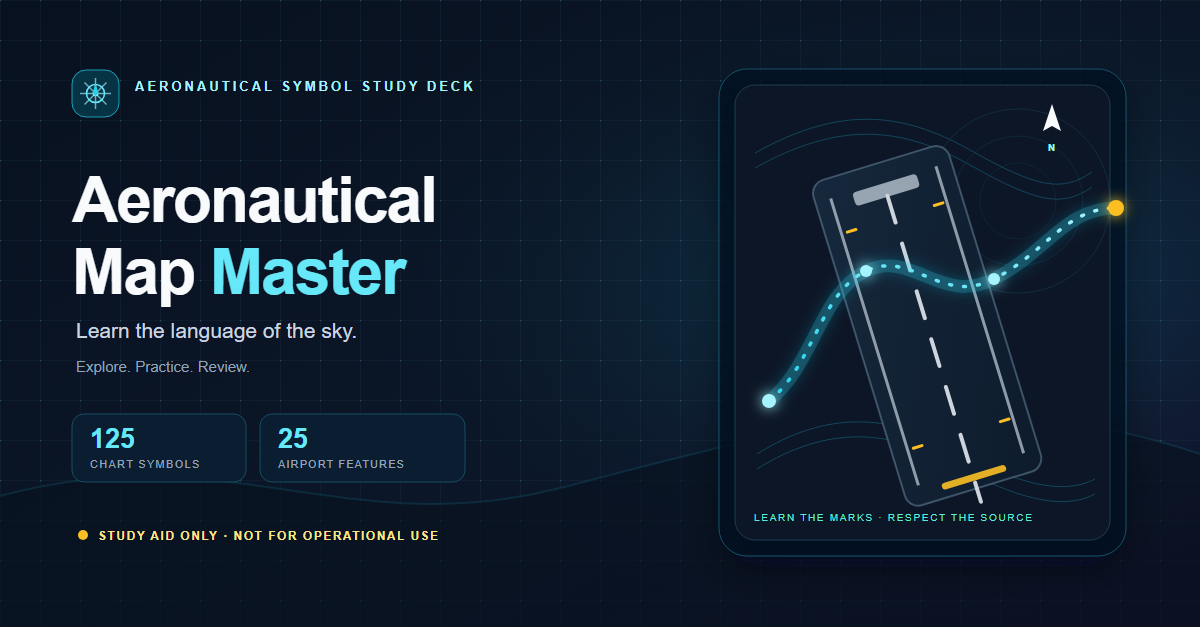
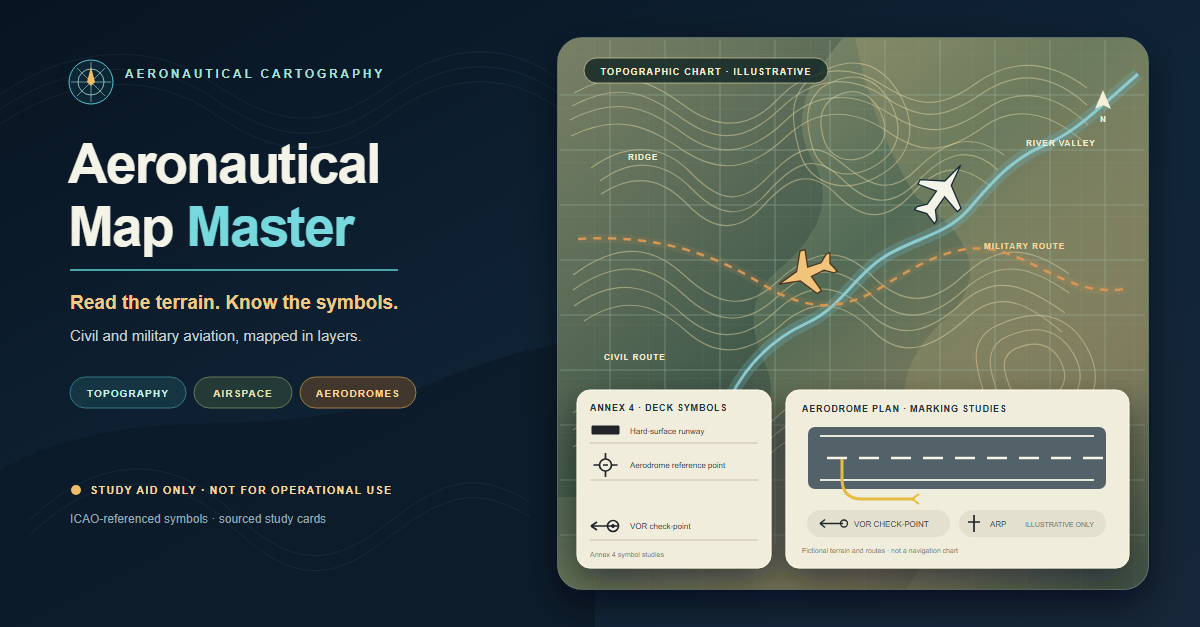
Refresh aviation cartography share image

diff --git a/index.html b/index.html
@@ -9,14 +9,14 @@
     <meta property="og:url" content="https://analaitadze-source.github.io/Aeronautical-Map-Master/">
     <meta property="og:title" content="Aeronautical Map Master">
     <meta property="og:description" content="Explore, practice, and review aeronautical chart symbols. A sourced study aid—not an operational chart reference.">
-    <meta property="og:image" content="https://analaitadze-source.github.io/Aeronautical-Map-Master/social-card.png">
+    <meta property="og:image" content="https://analaitadze-source.github.io/Aeronautical-Map-Master/social-card.png?v=2">
     <meta property="og:image:width" content="1200">
     <meta property="og:image:height" content="627">
-    <meta property="og:image:alt" content="Aeronautical Map Master study deck, illustrated with a glowing runway and navigation route on a dark chart grid.">
+    <meta property="og:image:alt" content="Aeronautical Map Master with a topographic map, civil and military route overlays, an aerodrome plan, and Annex 4-derived chart symbols.">
     <meta name="twitter:card" content="summary_large_image">
     <meta name="twitter:title" content="Aeronautical Map Master">
     <meta name="twitter:description" content="A sourced aeronautical chart-symbol study aid—not for operational use.">
-    <meta name="twitter:image" content="https://analaitadze-source.github.io/Aeronautical-Map-Master/social-card.png">
+    <meta name="twitter:image" content="https://analaitadze-source.github.io/Aeronautical-Map-Master/social-card.png?v=2">
     <!-- Tailwind CSS -->
     <script src="https://cdn.tailwindcss.com"></script>
     <script>
@@ -130,9 +130,7 @@
         <div class="max-w-7xl mx-auto flex flex-wrap items-center justify-between gap-3">
             <!-- App Title & Logo -->
             <div class="flex items-center space-x-3">
-                <div class="w-10 h-10 rounded-lg bg-gradient-to-br from-cyan-500 to-blue-600 flex items-center justify-center text-slate-950 font-bold shadow-lg shadow-cyan-500/20">
-                    <i class="fa-solid fa-plane-departure text-lg"></i>
-                </div>
+                <img src="./social-card.png?v=2" alt="" aria-hidden="true" class="h-10 w-10 shrink-0 rounded-lg border border-cyan-700/70 object-cover object-right shadow-lg shadow-cyan-500/20" width="1200" height="627" decoding="async">
                 <div>
                     <h1 class="font-bold text-lg leading-tight tracking-wide flex items-center gap-2">
                         <span>Aeronautical Map Master</span>
@@ -176,6 +174,11 @@
 
     <!-- MAIN APP CONTAINER -->
     <main class="flex-1 max-w-7xl w-full mx-auto p-4 md:p-6 flex flex-col gap-6">
+
+        <figure class="mx-auto w-full max-w-2xl overflow-hidden rounded-xl border border-slate-700/80 bg-slate-950/80 shadow-xl">
+            <img src="./social-card.png?v=2" alt="Illustrative topographic map with fictional civil and military routes, an aerodrome plan, and Annex 4-derived runway, aerodrome reference point, and VOR checkpoint symbols." width="1200" height="627" class="block h-auto w-full" decoding="async">
+            <figcaption class="px-3 py-2 text-center text-[10px] text-slate-500">Share-card illustration · fictional terrain and routes · study aid only</figcaption>
+        </figure>
 
         <section class="glass-panel rounded-xl border border-cyan-900/70 bg-slate-950/70 p-4 md:p-5" aria-labelledby="research-note-title">
             <div class="flex items-start gap-3">
